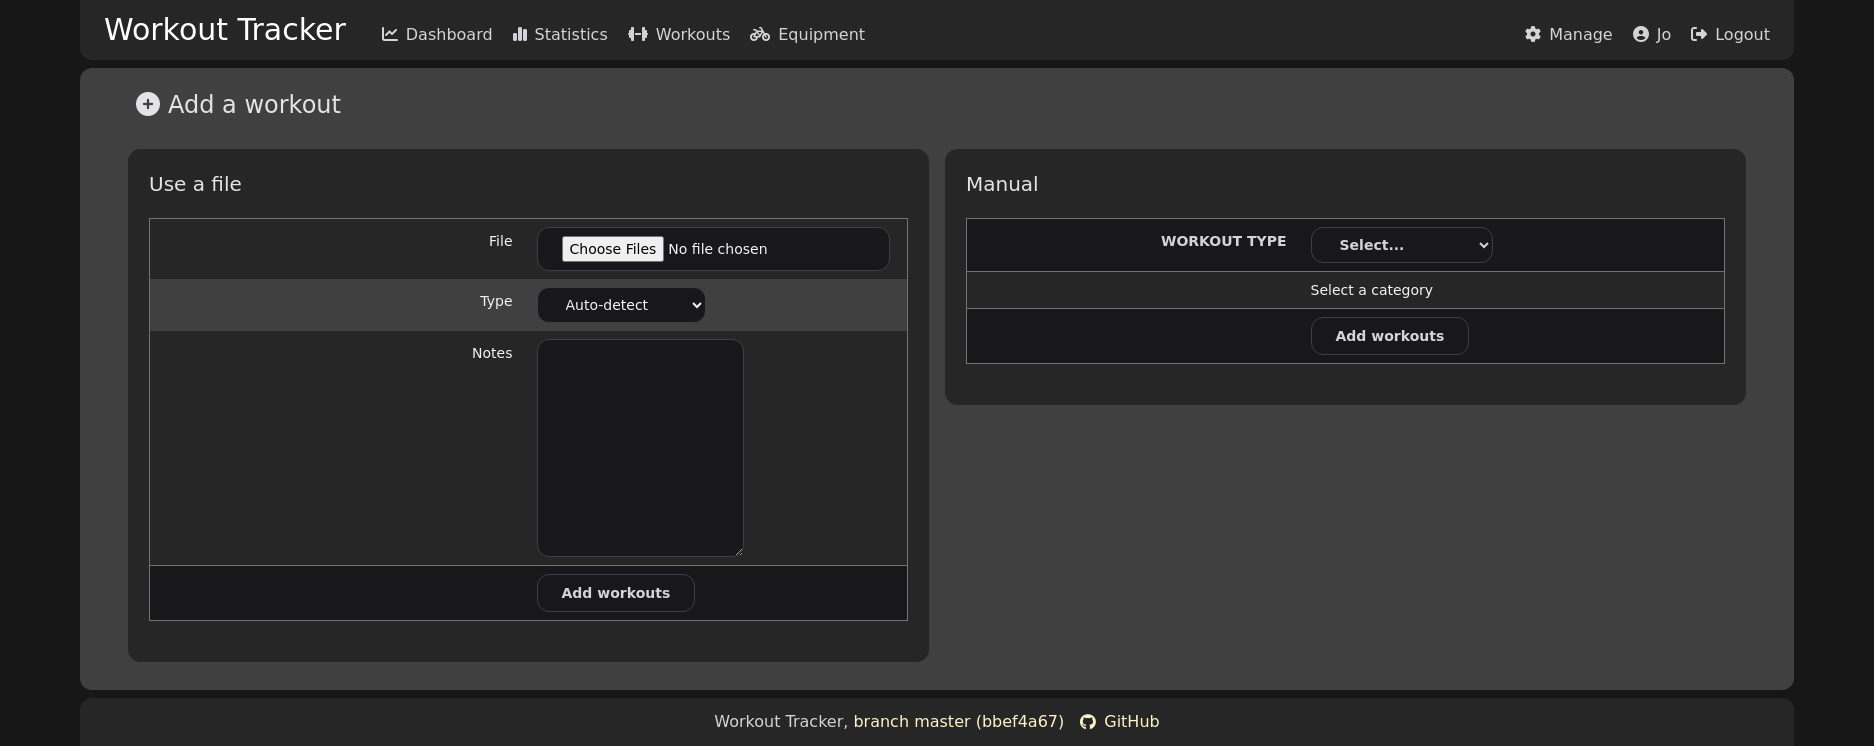
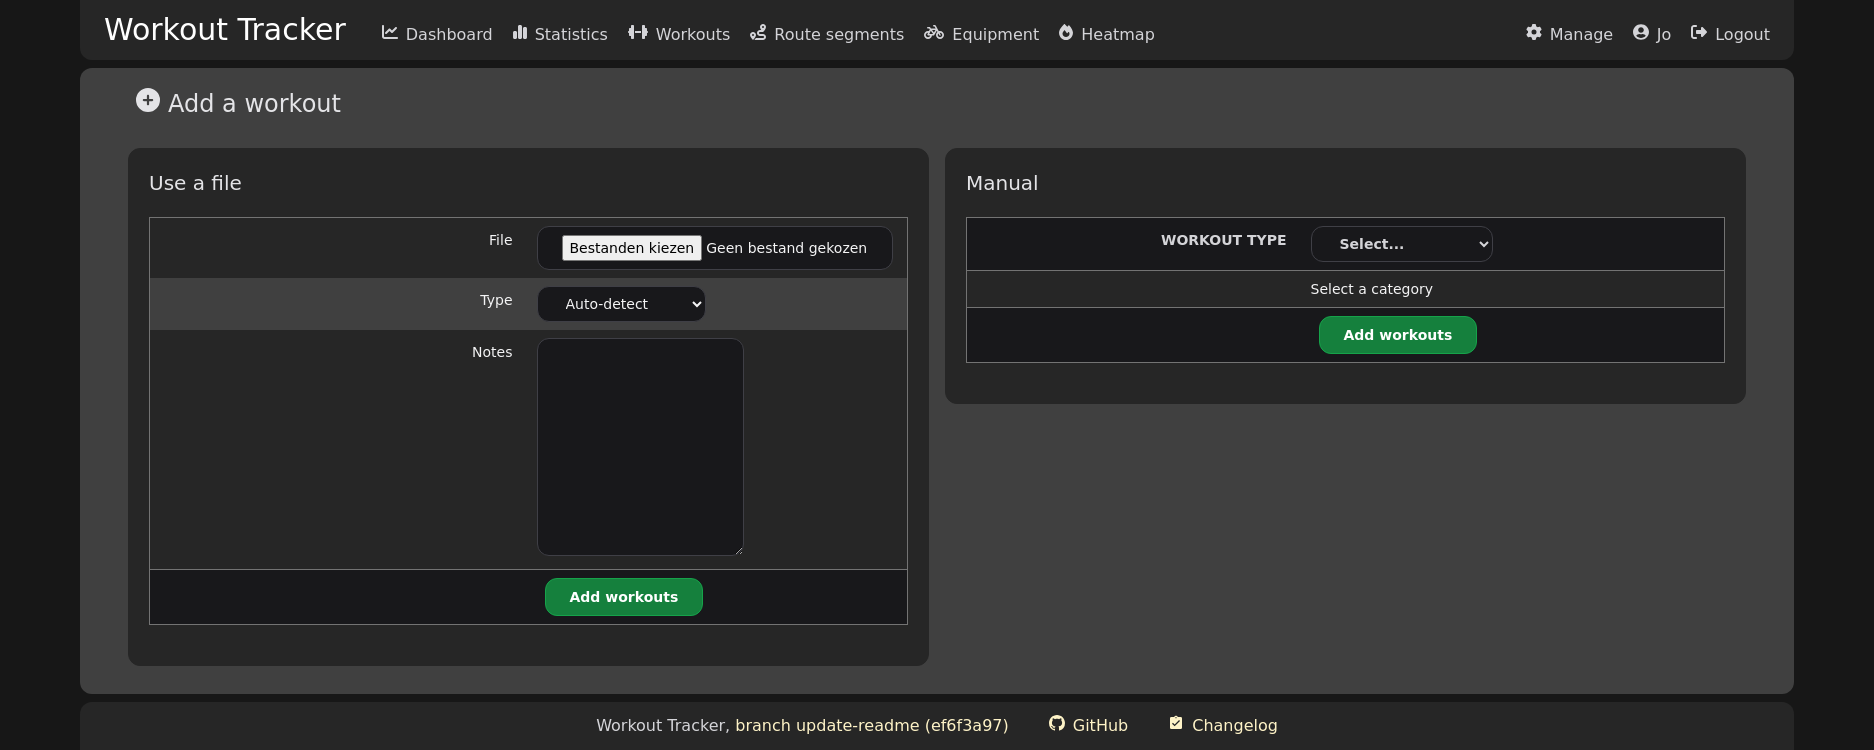
Update screenshots

diff --git a/screenshots.js b/screenshots.js
@@ -26,6 +26,13 @@ export default async function () {
   try {
     await Promise.all([
       page.waitForNavigation(),
+      page.goto("http://localhost:8080/user/signin?lang=nl"),
+    ]);
+
+    page.screenshot({ path: "docs/login-nl.png", fullPage: true });
+
+    await Promise.all([
+      page.waitForNavigation(),
       page.goto("http://localhost:8080"),
     ]);
 
@@ -60,7 +67,7 @@ export default async function () {
 
     await Promise.all([
       page.waitForNavigation(),
-      page.goto("http://localhost:8080/workouts/10"),
+      page.goto("http://localhost:8080/workouts/250"),
     ]);
     page.screenshot({ path: "docs/single_workout-dark.png", fullPage: true });
 
@@ -69,13 +76,22 @@ export default async function () {
       page.goto("http://localhost:8080/workouts/add"),
     ]);
     page.screenshot({ path: "docs/upload_workouts.png", fullPage: true });
+    const options = page.locator("#manual #type");
+    await options.selectOption("running");
+    await page.waitForSelector("#manual #location");
+    page.locator("#manual #location").fill("brussels");
+    await page.waitForSelector("#manual #address-results");
+    page.screenshot({
+      path: "docs/upload_workouts_manual.png",
+      fullPage: true,
+    });
 
     page.emulateMedia({
       colorScheme: "light",
     });
     await Promise.all([
       page.waitForNavigation(),
-      page.goto("http://localhost:8080/workouts/10"),
+      page.goto("http://localhost:8080/workouts/250"),
     ]);
     page.screenshot({ path: "docs/single_workout-light.png", fullPage: true });
 
@@ -96,7 +112,7 @@ export default async function () {
 
     await Promise.all([
       page.waitForNavigation(),
-      page.goto("http://localhost:8080/workouts/10"),
+      page.goto("http://localhost:8080/workouts/250"),
     ]);
     page.screenshot({ path: "docs/single_workout-responsive.png" });
 

diff --git a/views/workouts/add_templ.go b/views/workouts/add_templ.go
@@ -77,7 +77,7 @@ func Add() templ.Component {
 			if templ_7745c5c3_Err != nil {
 				return templ_7745c5c3_Err
 			}
-			templ_7745c5c3_Err = templruntime.WriteString(templ_7745c5c3_Buffer, 3, "</h3><form method=\"post\" action=\"")
+			templ_7745c5c3_Err = templruntime.WriteString(templ_7745c5c3_Buffer, 3, "</h3><form id=\"upload\" method=\"post\" action=\"")
 			if templ_7745c5c3_Err != nil {
 				return templ_7745c5c3_Err
 			}
@@ -93,7 +93,7 @@ func Add() templ.Component {
 			var templ_7745c5c3_Var6 string
 			templ_7745c5c3_Var6, templ_7745c5c3_Err = templ.JoinStringErrs(i18n.T(ctx, "File"))
 			if templ_7745c5c3_Err != nil {
-				return templ.Error{Err: templ_7745c5c3_Err, FileName: `views/workouts/add.templ`, Line: 27, Col: 52}
+				return templ.Error{Err: templ_7745c5c3_Err, FileName: `views/workouts/add.templ`, Line: 28, Col: 52}
 			}
 			_, templ_7745c5c3_Err = templ_7745c5c3_Buffer.WriteString(templ.EscapeString(templ_7745c5c3_Var6))
 			if templ_7745c5c3_Err != nil {
@@ -106,7 +106,7 @@ func Add() templ.Component {
 			var templ_7745c5c3_Var7 string
 			templ_7745c5c3_Var7, templ_7745c5c3_Err = templ.JoinStringErrs(i18n.T(ctx, "Type"))
 			if templ_7745c5c3_Err != nil {
-				return templ.Error{Err: templ_7745c5c3_Err, FileName: `views/workouts/add.templ`, Line: 40, Col: 49}
+				return templ.Error{Err: templ_7745c5c3_Err, FileName: `views/workouts/add.templ`, Line: 41, Col: 49}
 			}
 			_, templ_7745c5c3_Err = templ_7745c5c3_Buffer.WriteString(templ.EscapeString(templ_7745c5c3_Var7))
 			if templ_7745c5c3_Err != nil {
@@ -119,7 +119,7 @@ func Add() templ.Component {
 			var templ_7745c5c3_Var8 string
 			templ_7745c5c3_Var8, templ_7745c5c3_Err = templ.JoinStringErrs(i18n.T(ctx, "Auto-detect"))
 			if templ_7745c5c3_Err != nil {
-				return templ.Error{Err: templ_7745c5c3_Err, FileName: `views/workouts/add.templ`, Line: 44, Col: 60}
+				return templ.Error{Err: templ_7745c5c3_Err, FileName: `views/workouts/add.templ`, Line: 45, Col: 60}
 			}
 			_, templ_7745c5c3_Err = templ_7745c5c3_Buffer.WriteString(templ.EscapeString(templ_7745c5c3_Var8))
 			if templ_7745c5c3_Err != nil {
@@ -137,7 +137,7 @@ func Add() templ.Component {
 				var templ_7745c5c3_Var9 string
 				templ_7745c5c3_Var9, templ_7745c5c3_Err = templ.JoinStringErrs(wt.String())
 				if templ_7745c5c3_Err != nil {
-					return templ.Error{Err: templ_7745c5c3_Err, FileName: `views/workouts/add.templ`, Line: 46, Col: 39}
+					return templ.Error{Err: templ_7745c5c3_Err, FileName: `views/workouts/add.templ`, Line: 47, Col: 39}
 				}
 				_, templ_7745c5c3_Err = templ_7745c5c3_Buffer.WriteString(templ.EscapeString(templ_7745c5c3_Var9))
 				if templ_7745c5c3_Err != nil {
@@ -150,7 +150,7 @@ func Add() templ.Component {
 				var templ_7745c5c3_Var10 string
 				templ_7745c5c3_Var10, templ_7745c5c3_Err = templ.JoinStringErrs(i18n.T(ctx, wt.String()))
 				if templ_7745c5c3_Err != nil {
-					return templ.Error{Err: templ_7745c5c3_Err, FileName: `views/workouts/add.templ`, Line: 47, Col: 39}
+					return templ.Error{Err: templ_7745c5c3_Err, FileName: `views/workouts/add.templ`, Line: 48, Col: 39}
 				}
 				_, templ_7745c5c3_Err = templ_7745c5c3_Buffer.WriteString(templ.EscapeString(templ_7745c5c3_Var10))
 				if templ_7745c5c3_Err != nil {
@@ -168,7 +168,7 @@ func Add() templ.Component {
 			var templ_7745c5c3_Var11 string
 			templ_7745c5c3_Var11, templ_7745c5c3_Err = templ.JoinStringErrs(i18n.T(ctx, "Notes"))
 			if templ_7745c5c3_Err != nil {
-				return templ.Error{Err: templ_7745c5c3_Err, FileName: `views/workouts/add.templ`, Line: 55, Col: 51}
+				return templ.Error{Err: templ_7745c5c3_Err, FileName: `views/workouts/add.templ`, Line: 56, Col: 51}
 			}
 			_, templ_7745c5c3_Err = templ_7745c5c3_Buffer.WriteString(templ.EscapeString(templ_7745c5c3_Var11))
 			if templ_7745c5c3_Err != nil {
@@ -181,7 +181,7 @@ func Add() templ.Component {
 			var templ_7745c5c3_Var12 string
 			templ_7745c5c3_Var12, templ_7745c5c3_Err = templ.JoinStringErrs(i18n.T(ctx, "Add workouts"))
 			if templ_7745c5c3_Err != nil {
-				return templ.Error{Err: templ_7745c5c3_Err, FileName: `views/workouts/add.templ`, Line: 71, Col: 61}
+				return templ.Error{Err: templ_7745c5c3_Err, FileName: `views/workouts/add.templ`, Line: 72, Col: 61}
 			}
 			_, templ_7745c5c3_Err = templ_7745c5c3_Buffer.WriteString(templ.EscapeString(templ_7745c5c3_Var12))
 			if templ_7745c5c3_Err != nil {
@@ -194,13 +194,13 @@ func Add() templ.Component {
 			var templ_7745c5c3_Var13 string
 			templ_7745c5c3_Var13, templ_7745c5c3_Err = templ.JoinStringErrs(i18n.T(ctx, "Manual"))
 			if templ_7745c5c3_Err != nil {
-				return templ.Error{Err: templ_7745c5c3_Err, FileName: `views/workouts/add.templ`, Line: 81, Col: 32}
+				return templ.Error{Err: templ_7745c5c3_Err, FileName: `views/workouts/add.templ`, Line: 82, Col: 32}
 			}
 			_, templ_7745c5c3_Err = templ_7745c5c3_Buffer.WriteString(templ.EscapeString(templ_7745c5c3_Var13))
 			if templ_7745c5c3_Err != nil {
 				return templ_7745c5c3_Err
 			}
-			templ_7745c5c3_Err = templruntime.WriteString(templ_7745c5c3_Buffer, 14, "</h3><form method=\"post\" action=\"")
+			templ_7745c5c3_Err = templruntime.WriteString(templ_7745c5c3_Buffer, 14, "</h3><form id=\"manual\" method=\"post\" action=\"")
 			if templ_7745c5c3_Err != nil {
 				return templ_7745c5c3_Err
 			}
@@ -216,7 +216,7 @@ func Add() templ.Component {
 			var templ_7745c5c3_Var15 string
 			templ_7745c5c3_Var15, templ_7745c5c3_Err = templ.JoinStringErrs(i18n.T(ctx, "Workout type"))
 			if templ_7745c5c3_Err != nil {
-				return templ.Error{Err: templ_7745c5c3_Err, FileName: `views/workouts/add.templ`, Line: 87, Col: 57}
+				return templ.Error{Err: templ_7745c5c3_Err, FileName: `views/workouts/add.templ`, Line: 88, Col: 57}
 			}
 			_, templ_7745c5c3_Err = templ_7745c5c3_Buffer.WriteString(templ.EscapeString(templ_7745c5c3_Var15))
 			if templ_7745c5c3_Err != nil {
@@ -229,7 +229,7 @@ func Add() templ.Component {
 			var templ_7745c5c3_Var16 string
 			templ_7745c5c3_Var16, templ_7745c5c3_Err = templ.JoinStringErrs(helpers.RouteFor(ctx, "workout-form"))
 			if templ_7745c5c3_Err != nil {
-				return templ.Error{Err: templ_7745c5c3_Err, FileName: `views/workouts/add.templ`, Line: 93, Col: 57}
+				return templ.Error{Err: templ_7745c5c3_Err, FileName: `views/workouts/add.templ`, Line: 94, Col: 57}
 			}
 			_, templ_7745c5c3_Err = templ_7745c5c3_Buffer.WriteString(templ.EscapeString(templ_7745c5c3_Var16))
 			if templ_7745c5c3_Err != nil {
@@ -247,7 +247,7 @@ func Add() templ.Component {
 				var templ_7745c5c3_Var17 string
 				templ_7745c5c3_Var17, templ_7745c5c3_Err = templ.JoinStringErrs(wt.String())
 				if templ_7745c5c3_Err != nil {
-					return templ.Error{Err: templ_7745c5c3_Err, FileName: `views/workouts/add.templ`, Line: 99, Col: 39}
+					return templ.Error{Err: templ_7745c5c3_Err, FileName: `views/workouts/add.templ`, Line: 100, Col: 39}
 				}
 				_, templ_7745c5c3_Err = templ_7745c5c3_Buffer.WriteString(templ.EscapeString(templ_7745c5c3_Var17))
 				if templ_7745c5c3_Err != nil {
@@ -260,7 +260,7 @@ func Add() templ.Component {
 				var templ_7745c5c3_Var18 string
 				templ_7745c5c3_Var18, templ_7745c5c3_Err = templ.JoinStringErrs(i18n.T(ctx, wt.String()))
 				if templ_7745c5c3_Err != nil {
-					return templ.Error{Err: templ_7745c5c3_Err, FileName: `views/workouts/add.templ`, Line: 100, Col: 39}
+					return templ.Error{Err: templ_7745c5c3_Err, FileName: `views/workouts/add.templ`, Line: 101, Col: 39}
 				}
 				_, templ_7745c5c3_Err = templ_7745c5c3_Buffer.WriteString(templ.EscapeString(templ_7745c5c3_Var18))
 				if templ_7745c5c3_Err != nil {
@@ -278,7 +278,7 @@ func Add() templ.Component {
 			var templ_7745c5c3_Var19 string
 			templ_7745c5c3_Var19, templ_7745c5c3_Err = templ.JoinStringErrs(i18n.T(ctx, "Add workouts"))
 			if templ_7745c5c3_Err != nil {
-				return templ.Error{Err: templ_7745c5c3_Err, FileName: `views/workouts/add.templ`, Line: 117, Col: 61}
+				return templ.Error{Err: templ_7745c5c3_Err, FileName: `views/workouts/add.templ`, Line: 118, Col: 61}
 			}
 			_, templ_7745c5c3_Err = templ_7745c5c3_Buffer.WriteString(templ.EscapeString(templ_7745c5c3_Var19))
 			if templ_7745c5c3_Err != nil {

diff --git a/views/partials/address_results_templ.go b/views/partials/address_results_templ.go
@@ -56,7 +56,7 @@ func AddressResults(addresses []string) templ.Component {
 			return templ_7745c5c3_Err
 		}
 		if len(addresses) > 0 {
-			templ_7745c5c3_Err = templruntime.WriteString(templ_7745c5c3_Buffer, 2, "<ul class=\"list-none\">")
+			templ_7745c5c3_Err = templruntime.WriteString(templ_7745c5c3_Buffer, 2, "<ul id=\"address-results\" class=\"list-none\">")
 			if templ_7745c5c3_Err != nil {
 				return templ_7745c5c3_Err
 			}

diff --git a/README.md b/README.md
@@ -136,6 +136,10 @@ Login / registration form
 - new users have to be activated by an admin
 - registration can be disabled
 
+#### Multilingual
+
+![](docs/login-nl.png)
+
 ### Dashboard
 
 ![](docs/dashboard.png)
@@ -184,6 +188,8 @@ Details of a workout, with:
 - The files are parsed when uploaded: statistics and other information are
   calculated and stored in the database (serialized).
 - Or add a workout manually.
+
+![](docs/upload_workouts_manual.png)
 
 ### Statistics to follow your progress
 
@@ -320,6 +326,8 @@ Because I keep forgetting how to build every component, I created a Makefile.
 make all # Run tests and build all components
 
 # Install system dependencies
+make install-dev-deps
+# Install Javascript libraries
 make install-deps
 
 # Testing
